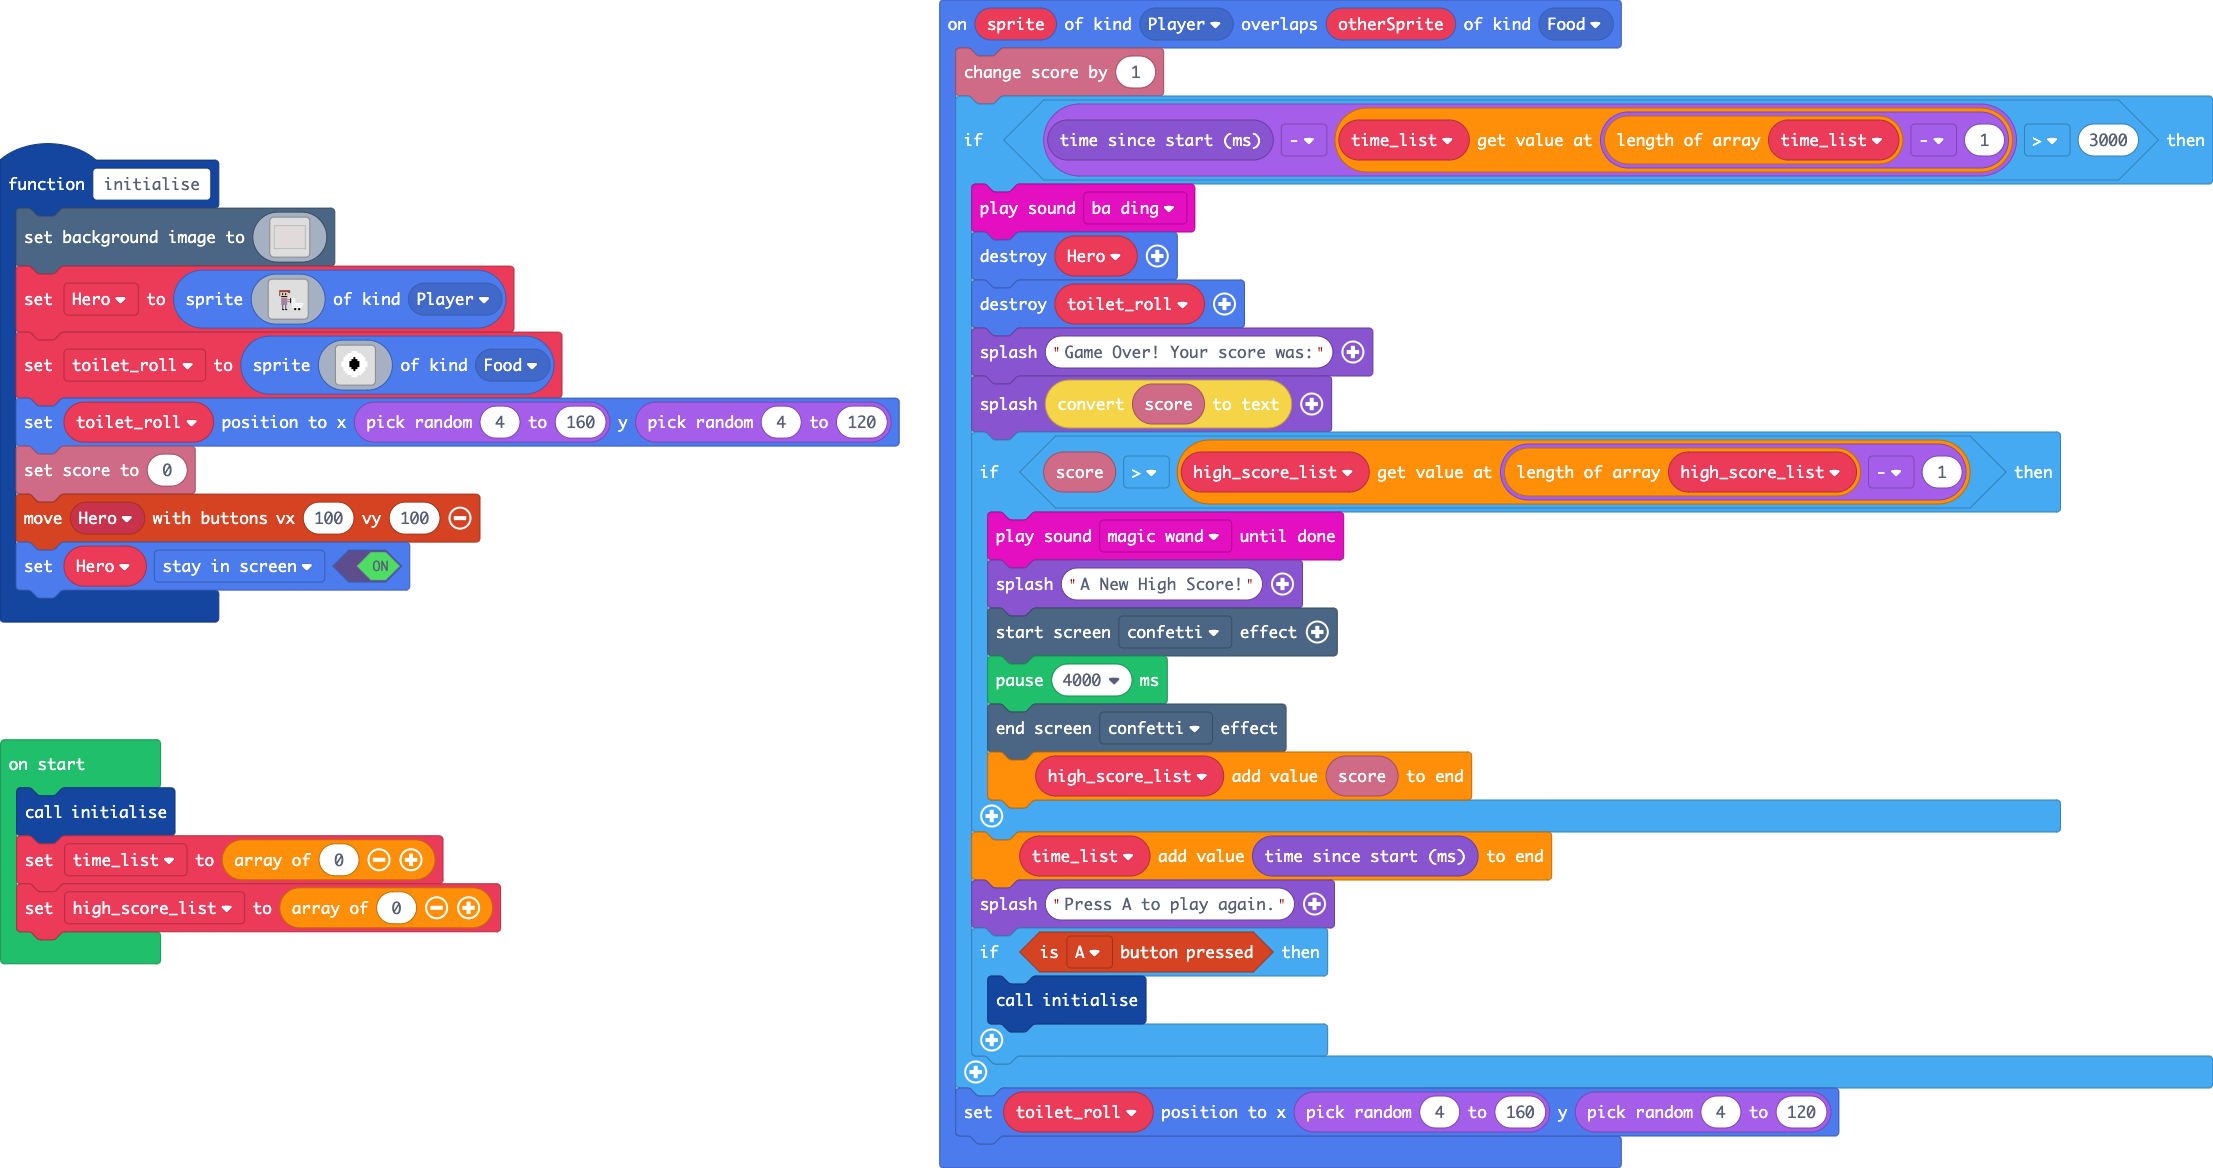
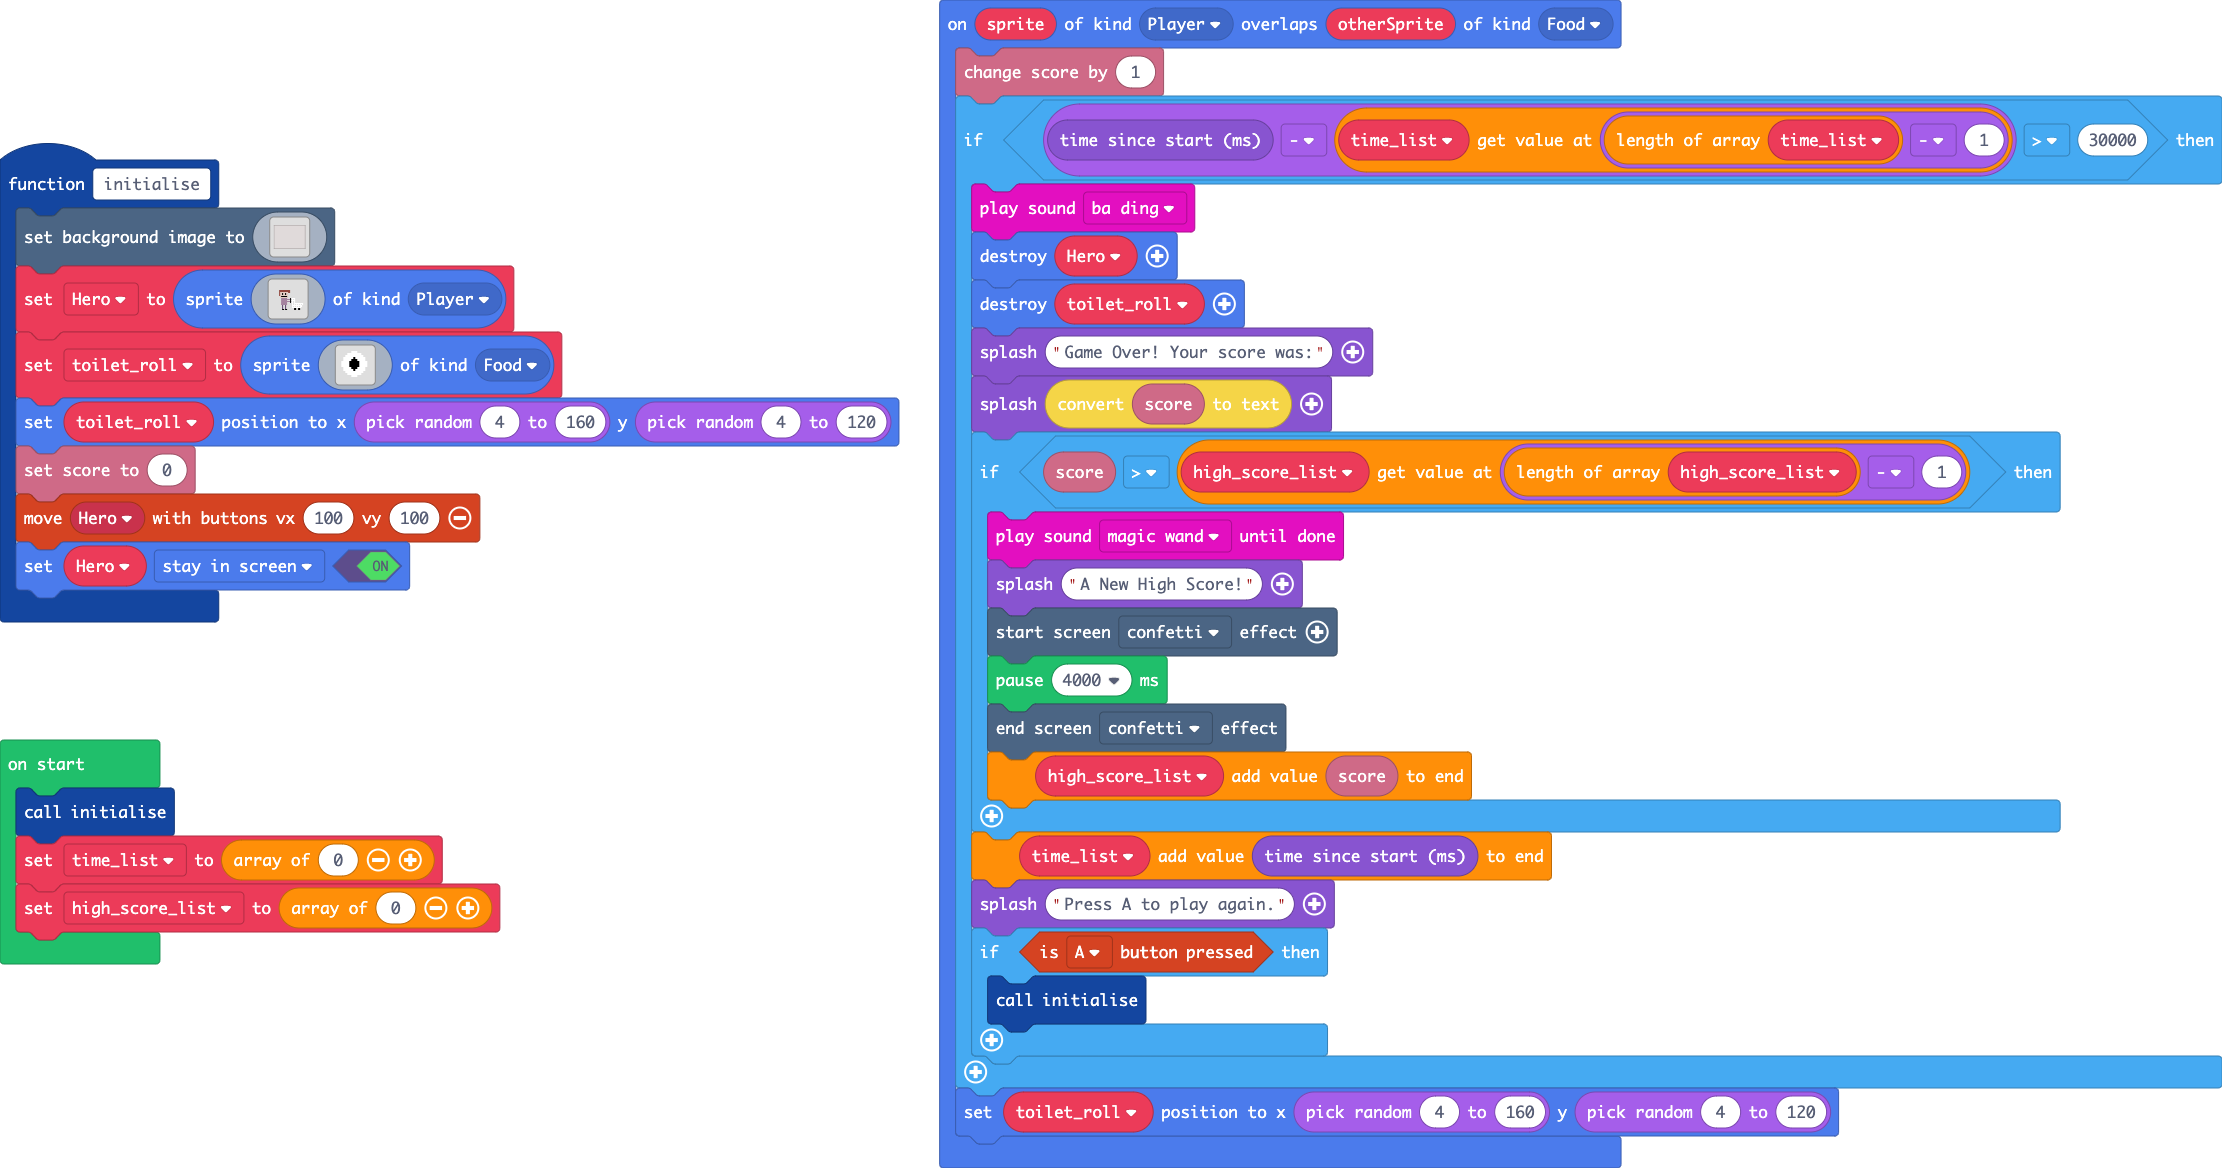
Update main.blocks, main.ts

diff --git a/main.ts b/main.ts
@@ -21,7 +21,7 @@ namespace myTiles {
 }
 sprites.onOverlap(SpriteKind.Player, SpriteKind.Food, function (sprite, otherSprite) {
     info.changeScoreBy(1)
-    if (game.runtime() - time_list[time_list.length - 1] > 3000) {
+    if (game.runtime() - time_list[time_list.length - 1] > 30000) {
         music.baDing.play()
         Hero.destroy()
         toilet_roll.destroy()
